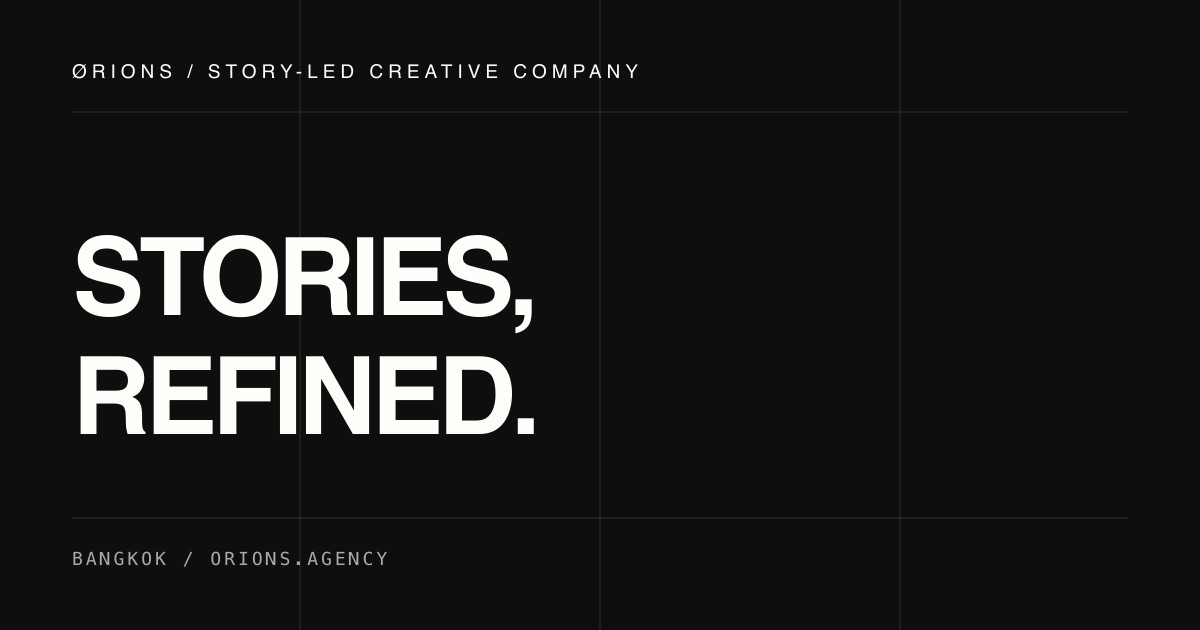
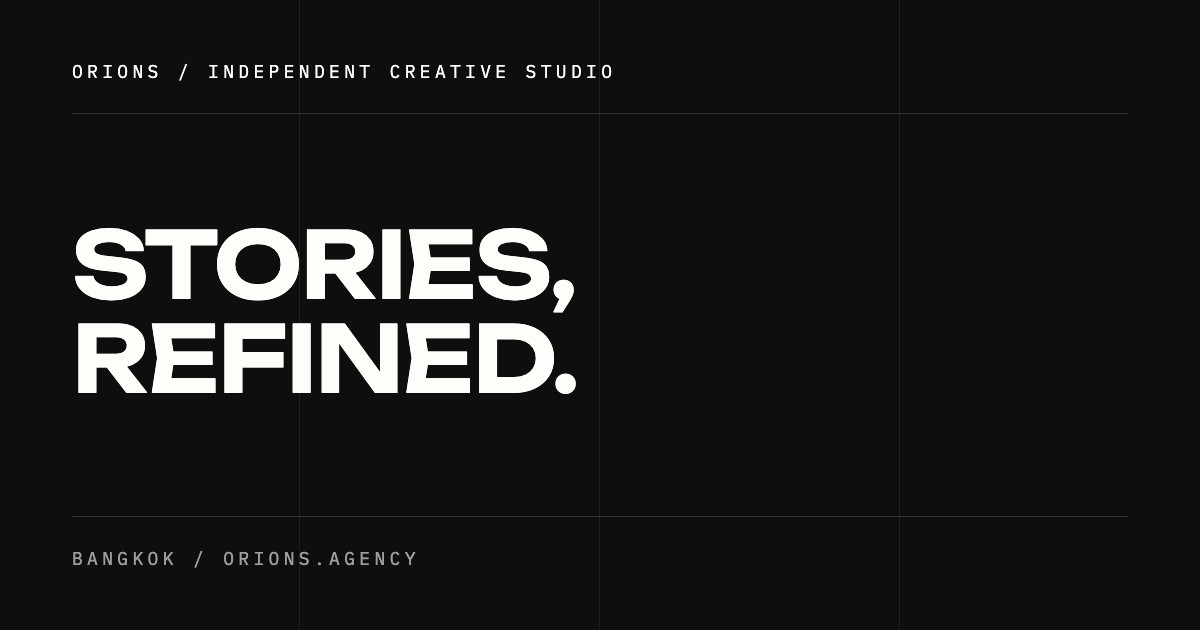
Consistency pass: share image, headings, name, method vocabulary
Asked whether the whole site is now consistent. Searching for old-model words
came back nearly clean, which was not the same as consistent — reading the
pages turned up what a word search could not.

- Share image. public/og-brand.jpg still said "STORY-LED CREATIVE COMPANY",
  the descriptor two models ago — the first thing anyone sees when the link is
  shared. Re-rendered at 1200×630 in the site's own faces (Unbounded, IBM Plex
  Mono): ORIONS / Independent Creative Studio, Stories, Refined.
- Two headings on two pages each. "Stories made visible." was both the home
  work section and the /work title; "Have a story worth refining?" was both
  the /services closing band and the /contact title. Home and Contact keep
  them; /work is "Selected work.", /services closes on "Tell us what you're
  working on."
- The duplicate-heading test missed both: it skipped any heading with inline
  markup (<br />, <em>) and never read closing-band titles. It now flattens
  markup, reads band titles, spans Contact and case pages, and was shown to
  fail on each of the two original duplicates before being trusted.
- Case pages still labelled a section "The Expression" — Story · Direction ·
  Expression vocabulary. It is "What We Shaped" now, in the method's words.
- Name. Nineteen places wrote ØRIONS and the rest ORIONS, including titles,
  schema, og:site_name, alt text and the logo's aria-label. Ø now lives only
  in the drawn logo; every piece of text, including what a screen reader
[…]

Changed region(s): [[0.0617, 0.3619, 0.4933, 0.6937], [0.0617, 0.0905, 0.5242, 0.1206], [0.0617, 0.8746, 0.3392, 0.9048]]

diff --git a/src/components/Logo.tsx b/src/components/Logo.tsx
@@ -7,7 +7,7 @@ const Logo = ({ className = "" }: { className?: string }) => (
     className={className}
     fill="currentColor"
     role="img"
-    aria-label="ØRIONS"
+    aria-label="ORIONS"
     xmlns="http://www.w3.org/2000/svg"
   >
     <path d="M735.9005737304688 -15.7999267578125H895.2994995117188L219.799072265625 765.7999267578125H60.400146484375ZM477.49981689453125 765.199951171875Q346.7999267578125 765.199951171875 248.5 716.199951171875Q150.2000732421875 667.199951171875 95.30010986328125 579.3999633789062Q40.400146484375 491.5999755859375 40.400146484375 375.0Q40.400146484375 258.4000244140625 95.30010986328125 170.60003662109375Q150.2000732421875 82.800048828125 248.5 33.800048828125Q346.7999267578125 -15.199951171875 477.49981689453125 -15.199951171875Q572.7996826171875 -15.199951171875 652.7996215820312 12.800048828125Q732.799560546875 40.800048828125 791.5495300292969 92.45004272460938Q850.2994995117188 144.10003662109375 882.7994995117188 215.75003051757812Q915.2994995117188 287.4000244140625 915.2994995117188 375.0Q915.2994995117188 491.5999755859375 860.3995361328125 579.3999633789062Q805.4995727539062 667.199951171875 706.8496398925781 716.199951171875Q608.19970703125 765.199951171875 477.49981689453125 765.199951171875ZM477.49981689453125 619.0010986328125Q560.400146484375 619.0010986328125 620.400390625 589.4509582519531Q680.400634765625 559.9008178710938 713.4507751464844 504.90057373046875Q746.5009155273438 449.90032958984375 746.5009155273438 375.0Q746.5009155273438 299.7996826171875 713.4507751464844 244.94943237304688Q680.400634765625 190.09918212890625 620.400390625 160.54904174804688Q560.400146484375 130.9989013671875 477.49981689453125 130.9989013671875Q395.29949951171875 130.9989013671875 334.9492492675781 160.54904174804688Q274.5989990234375 190.09918212890625 241.89886474609375 244.94943237304688Q209.19873046875 299.7996826171875 209.19873046875 375.0Q209.19873046875 449.90032958984375 241.89886474609375 504.90057373046875Q274.5989990234375 559.9008178710938 334.9492492675781 589.4509582519531Q395.29949951171875 619.0010986328125 477.49981689453125 619.0010986328125Z M1160.5992431640625 332.90020751953125H1449.6998901367188Q1507.3002319335938 332.90020751953125 1540.5504455566406 306.50006103515625Q1573.8006591796875 280.09991455078125 1573.8006591796875 233.49969482421875Q1573.8006591796875 186.199462890625 1540.5504455566406 160.14932250976562Q1507.3002319335938 134.09918212890625 1449.6998901367188 134.09918212890625H1136.4994506835938L1212.5987548828125 47.49969482421875V750.0H1042.80029296875V0.0H1470.0995483398438Q1552.3994140625 0.0 1614.29931640625 29.39996337890625Q1676.19921875 58.7999267578125 1710.899169921875 110.94985961914062Q1745.59912109375 163.09979248046875 1745.59912109375 233.49969482421875Q1745.59912109375 301.89959716796875 1710.899169921875 354.19952392578125Q1676.19921875 406.49945068359375 1614.29931640625 435.7494201660156Q1552.3994140625 464.9993896484375 1470.0995483398438 464.9993896484375H1160.5992431640625ZM1290.5999755859375 399.0H1484.598388671875L1767.8989868164062 750.0H1568.8006591796875Z M1882.80029296875 0.0H2052.5987548828125V750.0H1882.80029296875Z M2617.1998291015625 765.199951171875Q2486.4999389648438 765.199951171875 2387.8500061035156 716.199951171875Q2289.2000732421875 667.199951171875 2234.3001098632812 579.3999633789062Q2179.400146484375 491.5999755859375 2179.400146484375 375.0Q2179.400146484375 258.4000244140625 2234.3001098632812 170.60003662109375Q2289.2000732421875 82.800048828125 2387.8500061035156 33.800048828125Q2486.4999389648438 -15.199951171875 2617.1998291015625 -15.199951171875Q2747.8997192382812 -15.199951171875 2846.5496520996094 33.800048828125Q2945.1995849609375 82.800048828125 3000.0995483398438 170.60003662109375Q3054.99951171875 258.4000244140625 3054.99951171875 375.0Q3054.99951171875 491.5999755859375 3000.0995483398438 579.3999633789062Q2945.1995849609375 667.199951171875 2846.5496520996094 716.199951171875Q2747.8997192382812 765.199951171875 2617.1998291015625 765.199951171875ZM2617.1998291015625 613.601318359375Q2699.2001953125 613.601318359375 2758.6004638671875 584.6511535644531Q2818.000732421875 555.7009887695312 2850.6008911132812 502.0506896972656Q2883.2010498046875 448.400390625 2883.2010498046875 375.0Q2883.2010498046875 301.599609375 2850.6008911132812 247.94931030273438Q2818.000732421875 194.29901123046875 2758.6004638671875 165.34884643554688Q2699.2001953125 136.398681640625 2617.1998291015625 136.398681640625Q2535.8994750976562 136.398681640625 2476.149200439453 165.34884643554688Q2416.39892578125 194.29901123046875 2383.7987670898438 247.94931030273438Q2351.1986083984375 301.599609375 2351.1986083984375 375.0Q2351.1986083984375 448.400390625 2383.7987670898438 502.0506896972656Q2416.39892578125 555.7009887695312 2476.149200439453 584.6511535644531Q2535.8994750976562 613.601318359375 2617.1998291015625 613.601318359375Z M3876.80029296875 637.601318359375 3818.00048828125 646.9011840820312V0.0H3982.5989990234375V750.0H3768.1008911132812L3288.2990112304688 103.3988037109375L3346.3988037109375 94.09893798828125V750.0H3181.80029296875V0.0H3402.0983276367188Z M4106.100036621094 505.10003662109375H4278.498474121094Q4283.898498535156 543.2003173828125 4311.648651123047 571.6505432128906Q4339.3988037109375 600.1007690429688 4385.699035644531 615.6008911132812Q4431.999267578125 631.1010131835938 4493.3995361328125 631.1010131835938Q4582.100036621094 631.1010131835938 4633.450347900391 605.4507751464844Q4684.8006591796875 579.800537109375 4684.8006591796875 533.9002075195312Q4684.8006591796875 497.69989013671875 4655.300476074219 478.5497741699219Q4625.80029296875 459.399658203125 4545.7999267578125 450.49957275390625L4395.199462890625 433.3994140625Q4249.299865722656 417.49932861328125 4183.750030517578 364.5494689941406Q4118.2001953125 311.599609375 4118.2001953125 217.89971923828125Q4118.2001953125 144.39990234375 4161.650115966797 92.24996948242188Q4205.100036621094 40.10003662109375 4284.249908447266 12.450042724609375Q4363.3997802734375 -15.199951171875 4469.599609375 -15.199951171875Q4574.199462890625 -15.199951171875 4655.049346923828 15.250030517578125Q4735.899230957031 45.70001220703125 4783.899169921875 100.24996948242188Q4831.899108886719 154.7999267578125 4836.1990966796875 227.9998779296875H4663.8006591796875Q4659.400634765625 194.599609375 4634.50048828125 170.3994140625Q4609.600341796875 146.19921875 4567.0001220703125 132.54910278320312Q4524.39990234375 118.89898681640625 4465.9996337890625 118.89898681640625Q4385.099182128906 118.89898681640625 4337.148895263672 143.19921875Q4289.1986083984375 167.49945068359375 4289.1986083984375 211.3997802734375Q4289.1986083984375 244.50006103515625 4317.498779296875 263.1501770019531Q4345.7989501953125 281.80029296875 4418.3992919921875 290.70037841796875L4575.1995849609375 309.50054931640625Q4678.899475097656 321.400634765625 4740.249359130859 345.5006103515625Q4801.5992431640625 369.6005859375 4828.549163818359 410.7505187988281Q4855.499084472656 451.90045166015625 4855.499084472656 515.1004028320312Q4855.499084472656 590.4002685546875 4809.9991455078125 646.8001708984375Q4764.499206542969 703.2000732421875 4682.29931640625 734.2000122070312Q4600.099426269531 765.199951171875 4490.499572753906 765.199951171875Q4378.299743652344 765.199951171875 4292.949859619141 732.5499572753906Q4207.5999755859375 699.8999633789062 4158.550018310547 641.2999877929688Q4109.500061035156 582.7000122070312 4106.100036621094 505.10003662109375Z" />

diff --git a/src/pages/Work.tsx b/src/pages/Work.tsx
@@ -87,7 +87,7 @@ const Work = () => {
   return (
     <div>
       <SEO
-        title="Work — Selected Work · ØRIONS"
+        title="Work — Selected Work · ORIONS"
         description="Selected work by ORIONS — เรื่องของแบรนด์ที่ถูกค้นหา ขัดเกลา และถ่ายทอดผ่านแคมเปญ ภาพยนตร์ งานออกแบบ และประสบการณ์ดิจิทัล"
         path="/work"
         schema={{
@@ -103,11 +103,9 @@ const Work = () => {
       {/* 01 · HERO + filter */}
       <section className="section-ink px-6 md:px-10">
         <div className="max-w-[1280px] mx-auto pt-28 md:pt-32 pb-12 md:pb-16">
-          <SectionLabel label="Selected work" />
+          <SectionLabel label="Work" />
           <Reveal delay={0.05} emphasis="lead">
-            <h1 className="mt-8 h-display-lg">
-              Stories made<br /><em className="text-foreground">visible.</em>
-            </h1>
+            <h1 className="mt-8 h-display-lg">Selected work.</h1>
           </Reveal>
           <Reveal delay={0.1}>
             <p lang="th" className="mt-8 font-thai thai-wrap text-[15px] md:text-[17px] text-muted-foreground max-w-[640px] leading-[1.8]">
@@ -376,7 +374,7 @@ const Work = () => {
         <Reveal delay={0.05}>
           <button
             type="button"
-            aria-label="เล่นโชว์รีล ØRIONS 2026"
+            aria-label="เล่นโชว์รีล ORIONS 2026"
             onClick={() => setLightbox({ kind: "video", val: SHOWREEL_ID, ar: 16 / 9 })}
             onMouseEnter={() => setHoverVid(SHOWREEL_ID)}
             onMouseLeave={() => setHoverVid((h) => (h === SHOWREEL_ID ? null : h))}
@@ -386,7 +384,7 @@ const Work = () => {
               <img
                 src={`https://i.ytimg.com/vi/${SHOWREEL_ID}/maxresdefault.jpg`}
                 onError={(e) => { e.currentTarget.src = `https://i.ytimg.com/vi/${SHOWREEL_ID}/hqdefault.jpg`; }}
-                alt="ØRIONS — Showreel 2026"
+                alt="ORIONS — Showreel 2026"
                 width={1280}
                 height={720}
                 className="absolute inset-0 w-full h-full object-cover grayscale-[0.25] group-hover:grayscale-0 transition-[filter] duration-700"
@@ -394,7 +392,7 @@ const Work = () => {
               {hoverVid === SHOWREEL_ID && (
                 <iframe
                   src={`https://www.youtube.com/embed/${SHOWREEL_ID}?autoplay=1&mute=1&controls=0&loop=1&playlist=${SHOWREEL_ID}&modestbranding=1&playsinline=1&rel=0`}
-                  title="ØRIONS — Showreel 2026"
+                  title="ORIONS — Showreel 2026"
                   tabIndex={-1}
                   aria-hidden="true"
                   className="absolute left-0 top-1/2 -translate-y-1/2 w-full aspect-video pointer-events-none"
@@ -407,7 +405,7 @@ const Work = () => {
                 </span>
               </span>
               <span className="absolute left-6 bottom-4 md:left-10 md:bottom-6 font-mono text-[10px] md:text-[11px] tracking-[0.18em] uppercase text-foreground/85 pointer-events-none">
-                ØRIONS · Showreel
+                ORIONS · Showreel
               </span>
             </span>
           </button>

diff --git a/src/test/content-contracts.test.ts b/src/test/content-contracts.test.ts
@@ -88,17 +88,37 @@ describe("blueprint", () => {
     expect(fromRoot("src/data/caseStudies.ts")).not.toMatch(/^\s+(act|actTitle|movement):/m);
   });
 
-  /** Each public heading belongs to exactly one page. */
-  it("does not repeat a section heading across pages", () => {
+  /** Each public heading belongs to exactly one page. Reads h1/h2 with inline
+   *  markup (<br />, <em>) flattened, and the closing-band titles too — the
+   *  first version of this check skipped both, and two headings slipped past it. */
+  it("does not repeat a heading or closing line across pages", () => {
+    const flatten = (html: string) => html.replace(/<br\s*\/?>/g, " ").replace(/<[^>]+>/g, "").replace(/\s+/g, " ").trim();
+    const headings = (source: string) => [
+      ...Array.from(source.matchAll(/<h[12][^>]*>([\s\S]*?)<\/h[12]>/g), (m) => m[1]),
+      ...Array.from(source.matchAll(/title=\{<>([\s\S]*?)<\/>\}/g), (m) => m[1]),
+    ]
+      .filter((raw) => !/\{[^}]*\}/.test(raw)) // data-driven headings are unique by construction
+      .map(flatten)
+      .filter(Boolean);
     const seen = new Map<string, string>();
-    ["Index", "Practice", "About", "Work", "Archive"].forEach((name) => {
+    ["Index", "Practice", "About", "Work", "Archive", "Contact", "CaseStudy"].forEach((name) => {
       const page = `src/pages/${name}.tsx`;
-      Array.from(fromRoot(page).matchAll(/<h[12][^>]*>([^<{]+)<\/h[12]>/g), (m) => m[1].trim()).forEach((head) => {
-        const owner = seen.get(head);
+      new Set(headings(fromRoot(page))).forEach((head) => {
+        const owner = seen.get(head.toLowerCase());
         expect(owner, `"${head}" appears on both ${owner} and ${page}`).toBeUndefined();
-        seen.set(head, page);
+        seen.set(head.toLowerCase(), page);
       });
     });
+  });
+
+  /** Ø belongs to the drawn logo. Every piece of text — titles, schema, alt and
+   *  aria labels a screen reader speaks — writes the name ORIONS. */
+  it("spells the name ORIONS everywhere but the logo", () => {
+    const files = ["Index", "Practice", "About", "Work", "CaseStudy", "Contact", "Archive", "ArchivePost", "Privacy", "NotFound"]
+      .map((n) => `src/pages/${n}.tsx`)
+      .concat(["src/components/Nav.tsx", "src/components/Footer.tsx", "src/components/SEO.tsx", "index.html", "public/llms.txt"]);
+    files.forEach((f) => expect(fromRoot(f), f).not.toContain("ØRIONS"));
+    expect(fromRoot("src/components/Logo.tsx")).not.toMatch(/aria-label="ØRIONS"/);
   });
 
   it("uses the master idea on the main public surfaces", () => {

diff --git a/src/pages/Contact.tsx b/src/pages/Contact.tsx
@@ -111,7 +111,7 @@ const Contact = () => {
           body: JSON.stringify({
             access_key: w3key,
             subject: `เว็บไซต์ — ลูกค้าใหม่: ${name}${company ? ` · ${company}` : ""}`,
-            from_name: "ØRIONS Website",
+            from_name: "ORIONS Website",
             replyto: email,
             name,
             email,
@@ -152,7 +152,7 @@ const Contact = () => {
   return (
     <div>
       <SEO
-        title="Contact — เริ่มต้นบทสนทนา · ØRIONS"
+        title="Contact — เริ่มต้นบทสนทนา · ORIONS"
         description="มีเรื่องของแบรนด์ที่อยากทำให้ชัดขึ้น? เล่าโจทย์ให้ ORIONS ฟัง เริ่มต้นบทสนทนาที่ hello@orions.agency"
         path="/contact"
       />
@@ -309,7 +309,7 @@ const Contact = () => {
               {/* Contact people — creative lead + sales line */}
               <div className="card-soft p-7 md:p-8">
                 <div className="flex items-center gap-5">
-                  <Picture data={founder} alt="Ratthakan Suwanphakdee — Founder & Creative Director, ØRIONS" className="w-20 h-20 md:w-24 md:h-24 rounded-none object-cover object-top shrink-0 grayscale-[0.3] saturate-[0.85]" />
+                  <Picture data={founder} alt="Ratthakan Suwanphakdee — Founder & Creative Director, ORIONS" className="w-20 h-20 md:w-24 md:h-24 rounded-none object-cover object-top shrink-0 grayscale-[0.3] saturate-[0.85]" />
                   <div>
                     <div className="font-mono text-[10px] tracking-[0.04em] text-foreground">— คนที่ดูแลงานคุณ</div>
                     <h3 lang="th" className="mt-1.5 font-display text-[22px] tracking-[-0.01em]">รัฐกันต์ สุวรรณภักดี</h3>

diff --git a/src/pages/CaseStudy.tsx b/src/pages/CaseStudy.tsx
@@ -27,7 +27,7 @@ const CaseStudy = () => {
       about: cs.niche,
       dateCreated: cs.year,
       url,
-      creator: { "@type": "Organization", name: "ØRIONS", url: "https://orions.agency" },
+      creator: { "@type": "Organization", name: "ORIONS", url: "https://orions.agency" },
     },
     {
       "@context": "https://schema.org",
@@ -42,7 +42,7 @@ const CaseStudy = () => {
   return (
     <div>
       <SEO
-        title={`${cs.title} — Selected Work · ØRIONS`}
+        title={`${cs.title} — Selected Work · ORIONS`}
         description={cs.summary}
         path={`/work/${cs.slug}`}
         image={cs.cover.img.src}
@@ -196,7 +196,7 @@ const CaseStudy = () => {
       <section className="section-ink px-6 md:px-10 border-t border-foreground/15">
         <div className="max-w-[1280px] mx-auto py-24 md:py-36 grid grid-cols-1 md:grid-cols-12 gap-10">
           <div className="md:col-span-4">
-            <SectionLabel index="04" label="The Expression" />
+            <SectionLabel index="04" label="What We Shaped" />
           </div>
           <div className="md:col-span-8">
             <Reveal delay={0.05}>

diff --git a/src/pages/Index.tsx b/src/pages/Index.tsx
@@ -35,12 +35,12 @@ const Index = () => (
       <div className="max-w-[1400px] mx-auto w-full pt-36 pb-16 md:pb-20 relative z-10">
         <div className="flex items-start justify-between gap-8">
           <Reveal><SectionLabel label={`ORIONS · ${brand.descriptor}`} /></Reveal>
-          <span className="hidden md:block font-mono text-[10px] tracking-[0.22em] uppercase text-foreground/75">Showreel 2026 · ØRIONS</span>
+          <span className="hidden md:block font-mono text-[10px] tracking-[0.22em] uppercase text-foreground/75">Showreel 2026 · ORIONS</span>
         </div>
         <Reveal delay={0.08} emphasis="lead">
           <h1 className="mt-14 md:mt-20 h-display-xl hero-title">
             <span className="block whitespace-nowrap">Stories,</span>
-            <span className="block whitespace-nowrap">refined.</span>
+            <span className="block whitespace-nowrap">Refined.</span>
           </h1>
         </Reveal>
         <div className="mt-16 md:mt-24 pt-7 border-t border-foreground/30 grid grid-cols-1 lg:grid-cols-[1fr_1fr] gap-10 lg:gap-20">

diff --git a/src/components/Footer.tsx b/src/components/Footer.tsx
@@ -47,7 +47,7 @@ const Footer = () => {
             </a>
           </div>
           <div className="font-mono text-[10px] tracking-[0.18em] uppercase text-foreground/55 text-right">
-            Stories, refined.
+            Stories, Refined.
           </div>
         </div>
 
@@ -102,10 +102,10 @@ const Footer = () => {
 
         {/* Legal */}
         <div className="mt-10 pt-5 border-t border-foreground/15 flex items-center justify-between gap-4 font-mono text-[10px] tracking-[0.18em] uppercase opacity-50">
-          <p>© {year} ØRIONS — All rights reserved.</p>
+          <p>© {year} ORIONS — All rights reserved.</p>
           <div className="flex items-center gap-5">
             <Link to="/privacy" className="hover:opacity-100 hover:text-foreground transition-colors">Privacy</Link>
-            <p>Stories, refined.</p>
+            <p>Stories, Refined.</p>
           </div>
         </div>
       </div>

diff --git a/src/components/Nav.tsx b/src/components/Nav.tsx
@@ -36,7 +36,7 @@ const Nav = () => {
   return (
     <header className="fixed top-0 left-0 right-0 z-50 bg-background border-b border-foreground/10">
       <div className="px-6 md:px-10 h-[64px] flex items-center justify-between text-foreground">
-        <Link to="/" viewTransition aria-label="ØRIONS" className="text-foreground relative z-[60] inline-flex items-center">
+        <Link to="/" viewTransition aria-label="ORIONS" className="text-foreground relative z-[60] inline-flex items-center">
           <span
             className={`inline-block overflow-hidden align-middle transition-[max-width] duration-500 ease-[cubic-bezier(0.22,1,0.36,1)] ${
               scrolled && !open ? "max-w-[18px] md:max-w-[22px]" : "max-w-[160px]"

diff --git a/src/pages/Privacy.tsx b/src/pages/Privacy.tsx
@@ -28,7 +28,7 @@ const sections = [
 const Privacy = () => (
   <div>
     <SEO
-      title="นโยบายความเป็นส่วนตัว — ØRIONS"
+      title="นโยบายความเป็นส่วนตัว — ORIONS"
       description="เราเก็บเฉพาะข้อมูลที่จำเป็น ใช้เพื่อติดต่อกลับเท่านั้น ไม่ขายต่อ — และคุณขอลบได้ทุกเมื่อตาม PDPA."
       path="/privacy"
       noindex

diff --git a/src/components/SEO.tsx b/src/components/SEO.tsx
@@ -35,7 +35,7 @@ const SEO = ({ title, description, path, image = DEFAULT_OG_IMAGE, noindex = fal
       <meta property="og:type" content={ogType} />
       <meta property="og:locale" content="th_TH" />
       <meta property="og:locale:alternate" content="en_US" />
-      <meta property="og:site_name" content="ØRIONS" />
+      <meta property="og:site_name" content="ORIONS" />
       <meta property="og:title" content={title} />
       <meta property="og:description" content={description} />
       <meta property="og:url" content={canonical} />

diff --git a/index.html b/index.html
@@ -12,7 +12,7 @@
     <link rel="preconnect" href="https://www.youtube.com" />
     <link rel="preconnect" href="https://i.ytimg.com" />
     <meta name="theme-color" content="#0E0E0E" />
-    <meta name="author" content="ØRIONS" />
+    <meta name="author" content="ORIONS" />
     <!-- title · description · robots · canonical · Open Graph · Twitter are emitted
          per-route by the <SEO> component (vite-react-ssg <Head>) and prerendered into
          each page. Static copies here would duplicate (and go stale) on every URL. -->

diff --git a/src/pages/Practice.tsx b/src/pages/Practice.tsx
@@ -104,7 +104,7 @@ const Practice = () => (
 
     <CTABand
       eyebrow="Start a conversation"
-      title={<>Have a story worth refining?</>}
+      title={<>Tell us what you're working on.</>}
       subtitle="เล่าโจทย์ของแบรนด์ให้เราฟัง แล้วเราจะช่วยมองว่าควรเริ่มตรงไหน"
       primary={{ label: "Talk to ORIONS", to: "/contact" }}
       secondary={{ label: "See the work", to: "/work" }}
